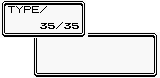
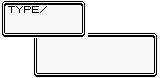
Introduced PP limiting

Changed region(s): [[0.375, 0.2821, 0.5, 0.3846], [0.25, 0.2821, 0.375, 0.3846]]

diff --git a/states/battle.py b/states/battle.py
@@ -44,7 +44,7 @@ class Battle(State):
         self.cursor_rect = self.scaled_cursor_img.get_rect()
         self.cursor_rect.x, self.cursor_rect.y = self.scaled_main_battle_menu_rect.x + (8 * self.game.SCALE), self.scaled_main_battle_menu_rect.y + (14 * self.game.SCALE)
 
-        #!Test Pokemon
+        #!Test Pokemon--------
         self.friend = Pokemon("Bulbasaur")
         self.friend.curr_xp = 200000
         self.friend.transition_xp = 200000
@@ -88,16 +88,20 @@ class Battle(State):
             elif self.menu_state == 'fight':
                 self.new_turn()
                 self.set_moves()
-                self.move_order()
-                if self.first_move == self.friend:
-                    self.menu_state = 'friend used move'
+                if self.selected_friend_move.curr_pp <= 0:
+                    self.menu_state = 'no pp left'
+                else:
+                    self.move_order()
+                    if self.first_move == self.friend:
+                        self.menu_state = 'friend used move'
 
-                if self.first_move == self.foe:
-                    self.menu_state = 'foe used move'
+                    if self.first_move == self.foe:
+                        self.menu_state = 'foe used move'
 
             elif self.menu_state == 'friend used move':
                 # switch to critical hit, effectiveness, foe move or move menu
                 self.selected_friend_move.use(self.friend, self.foe)
+                self.selected_friend_move.curr_pp -= 1
                 self.friend_moved = True
                 if self.selected_friend_move.landed_crit:
                     self.menu_state = 'friend critical hit'
@@ -177,6 +181,9 @@ class Battle(State):
                 self.index = 0
                 self.cursor_rect.x, self.cursor_rect.y = self.scaled_main_battle_menu_rect.x + (8 * self.game.SCALE), self.scaled_main_battle_menu_rect.y + (14 * self.game.SCALE)
 
+            elif self.menu_state == 'no pp left':
+                self.menu_state = 'fight'
+
             elif self.menu_state == 'escape':
                 self.game.playing = False
                 self.game.running = False
@@ -228,11 +235,11 @@ class Battle(State):
                 self.game.draw_text(display, "It's not very", self.game.BLACK, (9*self.game.SCALE),  (112*self.game.SCALE))
                 self.game.draw_text(display, "effective...", self.game.BLACK, (9*self.game.SCALE),  (128*self.game.SCALE))
         
+        elif self.menu_state == 'no pp left':
+            self.game.draw_text(display, "No pp left!", self.game.BLACK, (9*self.game.SCALE),  (112*self.game.SCALE))
+
         elif self.menu_state == 'escape':
             self.escape(display)
-
-        elif self.menu_state == '':
-            pass
 
         self.draw_foe(display)
         self.draw_friend(display)
@@ -294,7 +301,7 @@ class Battle(State):
         self.draw_gender(display, self.friend, 580, 256)
         self.game.draw_text(display, self.friend.name.upper(), self.game.BLACK, 320, 224)
         self.game.draw_text(display, str(self.friend.level), self.game.BLACK, 484, 252)
-        self.game.draw_text(display, f"{self.friend.transitionHP}/{self.friend.maxHP}", self.game.BLACK, 384, 320)
+        self.game.draw_text(display, f"{self.friend.transitionHP}/{self.friend.maxHP}", self.game.BLACK, 576, 320, alignment='right')
 
         if self.menu_state == 'main':
             display.blit(self.scaled_cursor_img, self.cursor_rect)
@@ -305,12 +312,13 @@ class Battle(State):
             # Move list
             num_moves = len(self.friend.moves)
             for index, move in enumerate(self.friend.moves):
-                self.game.draw_text(display, move.upper(), self.game.BLACK, self.scaled_battle_move_menu_rect.x + (48*self.game.SCALE), self.scaled_battle_move_menu_rect.y + (37*self.game.SCALE) + (32*index))
+                self.game.draw_text(display, move.name.upper(), self.game.BLACK, self.scaled_battle_move_menu_rect.x + (48*self.game.SCALE), self.scaled_battle_move_menu_rect.y + (37*self.game.SCALE) + (32*index))
             for blank_move in range(len(self.friend.moves), 4):
                 self.game.draw_text(display, "-", self.game.BLACK, self.scaled_battle_move_menu_rect.x + (48*self.game.SCALE), self.scaled_battle_move_menu_rect.y + (37*self.game.SCALE) + (32*blank_move))
 
             # Move type
-            self.game.draw_text(display, Move(self.friend.moves[self.index]).get_type().upper(), self.game.BLACK, self.scaled_battle_move_menu_rect.x + (16*self.game.SCALE), self.scaled_battle_move_menu_rect.y + (13*self.game.SCALE))
+            self.game.draw_text(display, self.friend.moves[self.index].type.upper(), self.game.BLACK, self.scaled_battle_move_menu_rect.x + (16*self.game.SCALE), self.scaled_battle_move_menu_rect.y + (13*self.game.SCALE))
+            self.game.draw_text(display, f"{self.friend.moves[self.index].curr_pp}/{self.friend.moves[self.index].pp}", self.game.BLACK, self.scaled_battle_move_menu_rect.x + (80*self.game.SCALE), self.scaled_battle_move_menu_rect.y + (21*self.game.SCALE), alignment='right')
 
     def escape(self, display):
         self.game.draw_text(display, f"Got away safely!", self.game.BLACK, (9*self.game.SCALE),  (112*self.game.SCALE))
@@ -321,8 +329,10 @@ class Battle(State):
             self.foe_moved = False
 
     def set_moves(self):
-        self.selected_friend_move = Move(self.friend.moves[self.index])
-        self.selected_foe_move = Move(random.choice(self.foe.moves))
+        self.selected_friend_move = self.friend.moves[self.index]
+        if self.selected_friend_move.curr_pp <= 0:
+            self.menu_state = 'no pp left'
+        self.selected_foe_move = self.foe.moves[random.randint(0, len(self.foe.moves)-1)]
 
     def move_order(self):
         if self.selected_friend_move.get_priority() > self.selected_foe_move.get_priority():
@@ -340,66 +350,6 @@ class Battle(State):
             else:
                 self.first_move = self.foe
                 self.second_move = self.friend
-
-    #!
-    def check_priority(self):
-        if self.selected_friend_move.get_priority() > self.selected_foe_move.get_priority():
-            if not self.friend_moved:
-                self.selected_friend_move.use(self.friend, self.foe)
-                self.friend_moved = True
-
-        if self.selected_friend_move.get_priority() < self.selected_foe_move.get_priority():
-            if not self.foe_moved:
-                self.selected_foe_move.use(self.friend, self.foe)
-                self.foe_moved = True
-
-        if self.selected_friend_move.get_priority() == self.selected_foe_move.get_priority():
-            self.check_speed()
-
-    #!
-    def check_speed(self):
-        if self.friend.speed >= self.foe.speed:
-            if not self.friend_moved:
-                self.selected_friend_move.use(self.friend, self.foe)
-                self.friend_moved = True
-
-        if self.friend.speed < self.foe.speed:
-            if not self.foe_moved:
-                self.selected_foe_move.use(self.foe, self.friend)
-                self.foe_moved = True
-
-    #!
-    def check_effectiveness(self, pokemon):
-        friend_effectiveness = self.selected_friend_move.effectiveness(self.foe)
-        foe_effectiveness = self.selected_foe_move.effectiveness(self.friend)
-        if pokemon == self.friend:
-            return friend_effectiveness
-        elif pokemon == self.foe:
-            return foe_effectiveness
-
-    #!
-    def end_battle(self):
-        if self.friend.is_fainted():
-            self.menu_state = 'friend fainted'
-            self.selected_friend_move = None
-            self.selected_foe_move = None
-        if self.foe.is_fainted():
-            self.menu_state = 'foe fainted'
-            self.selected_friend_move = None
-            self.selected_foe_move = None
-
-    #!
-    def battle_loop(self):
-        self.new_turn()
-        self.set_moves()
-        self.check_priority()
-        # self.check_effectiveness()
-        if self.friend_moved is True and not self.foe.is_fainted():
-            self.selected_foe_move.use(self.foe, self.friend)
-            self.foe_moved = True
-        elif self.foe_moved is True and not self.friend.is_fainted():
-            self.selected_friend_move.use(self.friend, self.foe)
-        self.end_battle()
 
     def update_cursor(self, actions):
         if self.menu_state == 'main':

diff --git a/game.py b/game.py
@@ -45,7 +45,7 @@ class Game():
         for event in pygame.event.get():
             if event.type == pygame.QUIT:
                 self.playing = False
-                
+
                 self.running = False
             if event.type == pygame.KEYDOWN:
                 if event.key == pygame.K_ESCAPE:
@@ -91,11 +91,19 @@ class Game():
         self.dt = now - self.prev_time
         self.prev_time = now
 
-    def draw_text(self, surface, text, colour, x, y):
+    def draw_text(self, surface, text, colour, x, y, alignment=None):
         text_surface = self.font.render(text, False, colour)
         text_rect = text_surface.get_rect()
-        text_rect = (x, y)
-        surface.blit(text_surface, text_rect)
+        if alignment is None:
+            text_rect = (x, y)
+            surface.blit(text_surface, text_rect)
+        elif alignment == 'right':
+            text_rect.right = x
+            text_rect.top = y
+            surface.blit(text_surface, text_rect)
+        elif alignment == 'center':
+            text_rect.center = (x, y)
+            surface.blit(text_surface, text_rect)
 
     def load_assets(self):
         self.assets_dir = os.path.join("assets")

diff --git a/pokemon.py b/pokemon.py
@@ -2,6 +2,7 @@ from settings import load_json
 import random
 from cmath import sqrt
 import pygame
+from move import Move
 
 pkmn_dict = load_json("pokemonDB")
 type_dict = load_json("typeDB")
@@ -53,14 +54,6 @@ class Pokemon:
         self.wild = False
         self.traded = False
         self.held_item = None
-        self.move_1_pp = 0
-        self.move_1_maxpp = 0
-        self.move_2_pp = 0
-        self.move_2_maxpp = 0
-        self.move_3_pp = 0
-        self.move_3_maxpp = 0
-        self.move_4_pp = 0
-        self.move_4_maxpp = 0
 
         #Status effects
         self.status_effect = False # Set to True if any other status effect is True
@@ -341,7 +334,7 @@ class Pokemon:
         #fill possible_moves with all moves available at pokemon current level:
         for index, move in enumerate(pkmn_dict[self.name]['Moves']):
             if pkmn_dict[self.name]['Moves'][move] <= self.level:
-                possible_moves.append(move)
+                possible_moves.append(Move(move))
 
         #Create list no longer than 4:
         for move in range(0, len(possible_moves)):

diff --git a/move.py b/move.py
@@ -1,5 +1,4 @@
 from settings import load_json
-import pokemon
 import random
 
 type_dict = load_json("typeDB")
@@ -14,6 +13,7 @@ class Move:
         self.type = move_dict[self.name]["Type"]
         self.damage_class = move_dict[self.name]["Damage-Class"]
         self.pp = move_dict[self.name]["PP"]
+        self.curr_pp = self.pp
         self.max_pp = move_dict[self.name]["Max-PP"]
         self.power = move_dict[self.name]["Power"]
         self.accuracy = move_dict[self.name]["Accuracy"]
@@ -27,8 +27,8 @@ class Move:
     def get_priority(self):
         return self.priority
 
-    def get_type(self):
-        return self.type
+    # def get_type(self):
+    #     return self.type
 
     def paralyzed(self, defender):
         '''
